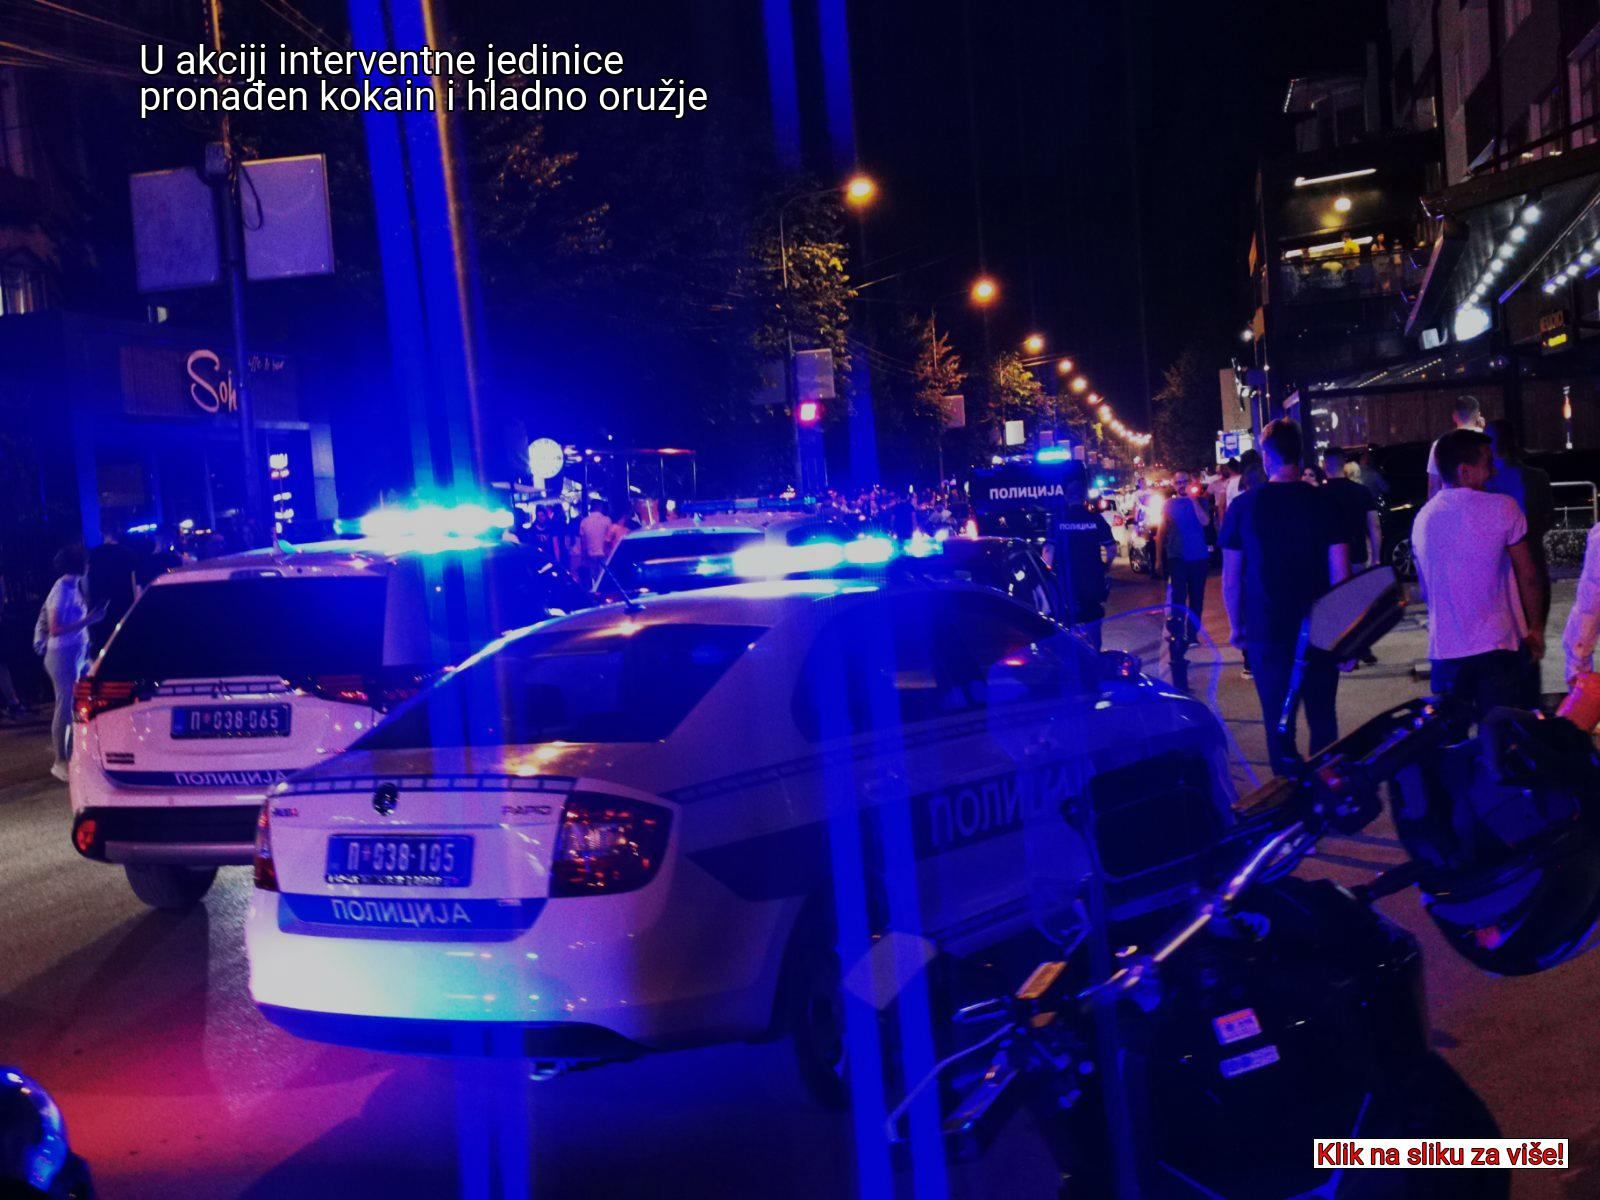
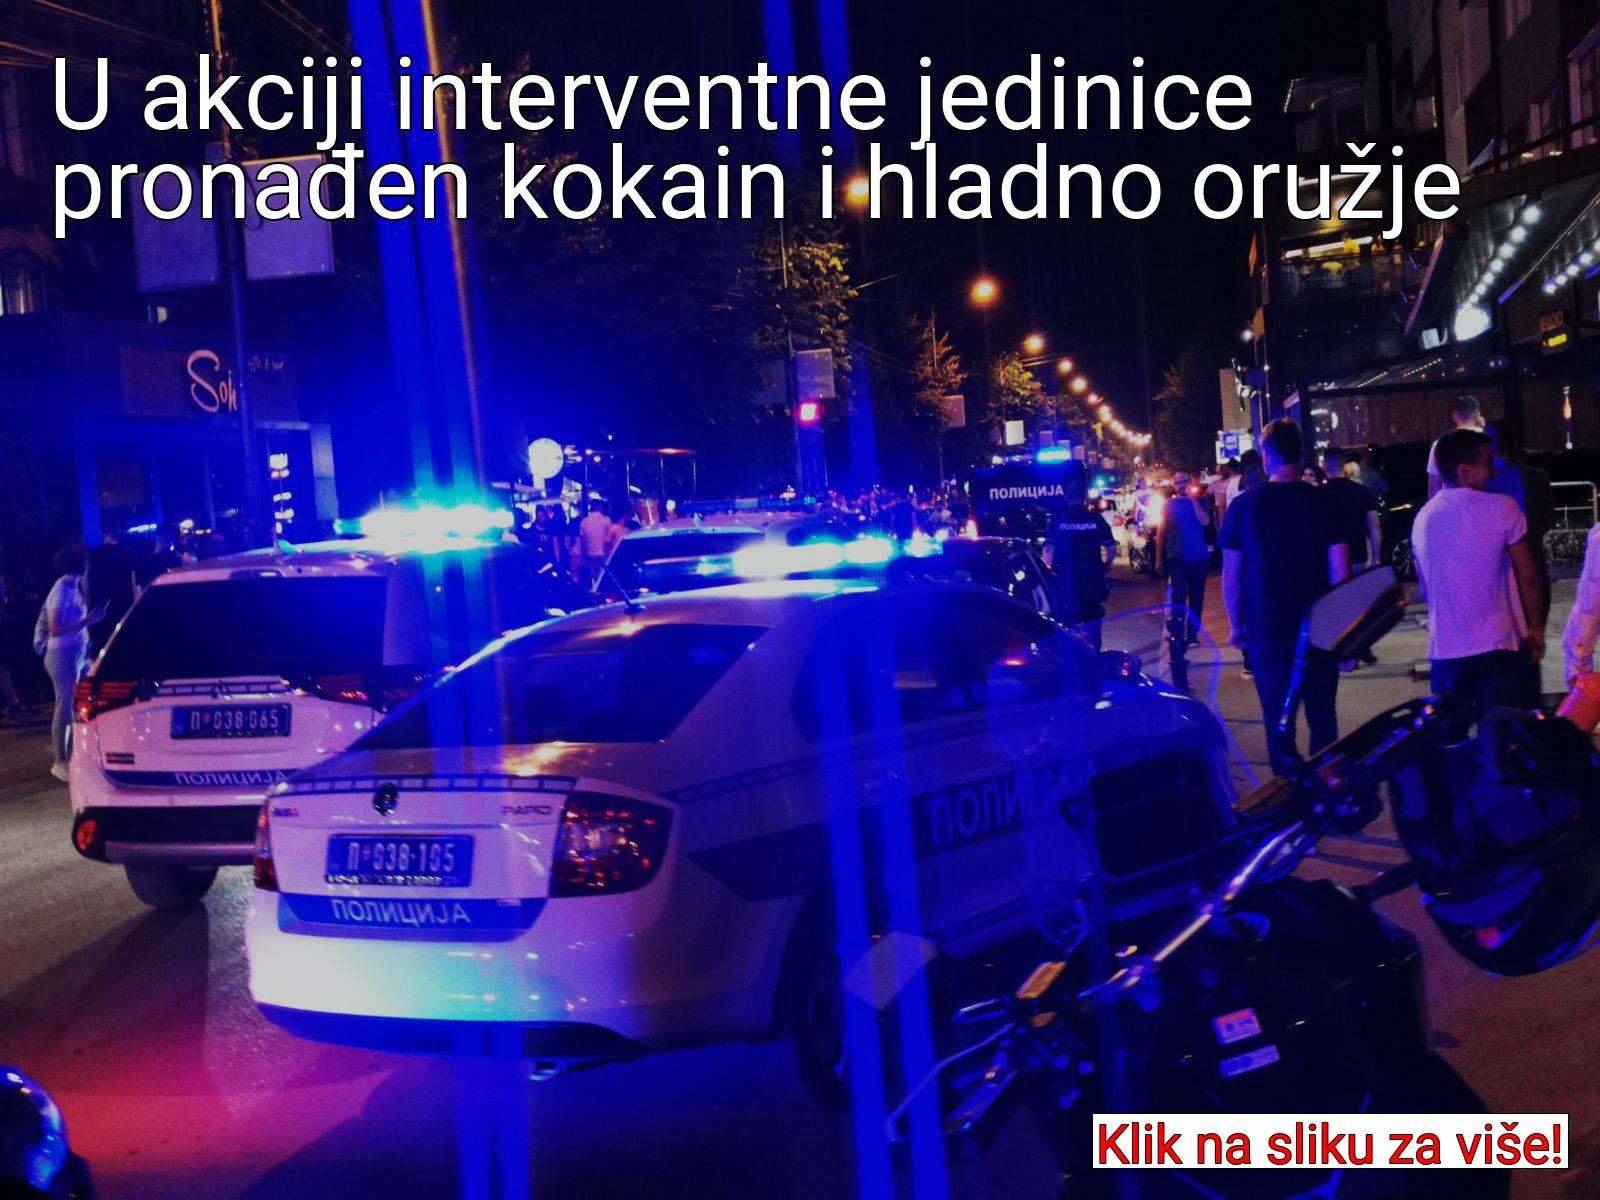
feat(insta): dynamic font size and spacing (padding)

Changed region(s): [[0.0312, 0.0308, 0.9062, 0.2158], [0.6562, 0.925, 1.0, 0.9867]]

diff --git a/insta/main.py b/insta/main.py
@@ -16,8 +16,6 @@ from bs4 import BeautifulSoup
 USERNAME = 'vesti_np'
 PASSWORD = 'Ba%qNQ5z^X!D@$73'
 
-FONT1 = ImageFont.truetype("Roboto-Regular.ttf", size=28)
-FONT2 = ImageFont.truetype("Roboto-Regular.ttf", size=40)
 
 TINT_COLOR = (0, 0, 0)  # Black
 TRANSPARENCY = .20  # Degree of transparency, 0-100%
@@ -27,6 +25,8 @@ def draw(img, text):
     click = "Klik na sliku za više!"
 
     width, height = img.size
+    FONT1 = ImageFont.truetype("Roboto-Regular.ttf", size= width // 30)
+    FONT2 = ImageFont.truetype("Roboto-Regular.ttf", size= width // 16)
 
     img = opacity(img)
     draw = ImageDraw.Draw(img)
@@ -44,7 +44,7 @@ def draw(img, text):
     x = (width - textwidth) / 8
     for line in lines:
         draw.text((x, y_new), line, font=FONT2, stroke_width=2, stroke_fill=(0, 0, 0), align='center')
-        y_new += 36
+        y_new += (width // 30) + 36
 
     return img
 
@@ -76,7 +76,7 @@ def process_image(link, text):
 
     # save image
     size = (1080, 1080)
-    img.resize(size, Image.LANCZOS)
+    img.resize(size, Image.Resampling.LANCZOS)
     img.save('output.jpg')
     return 'output.jpg'
 
